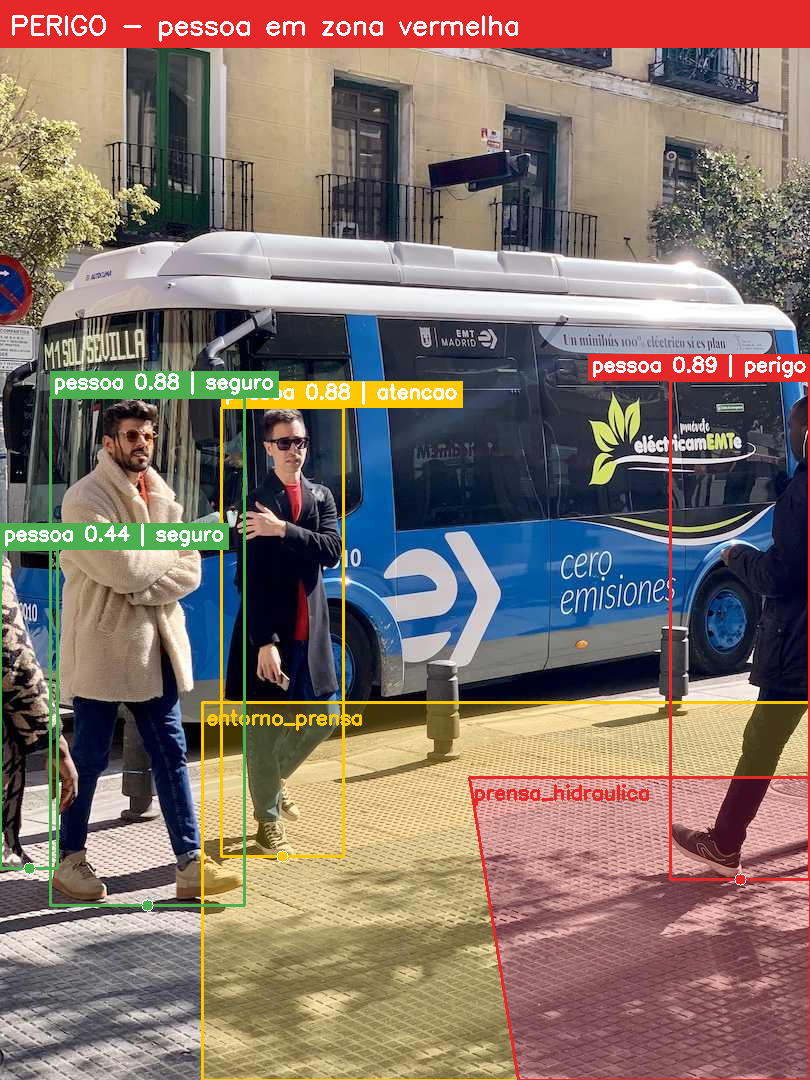
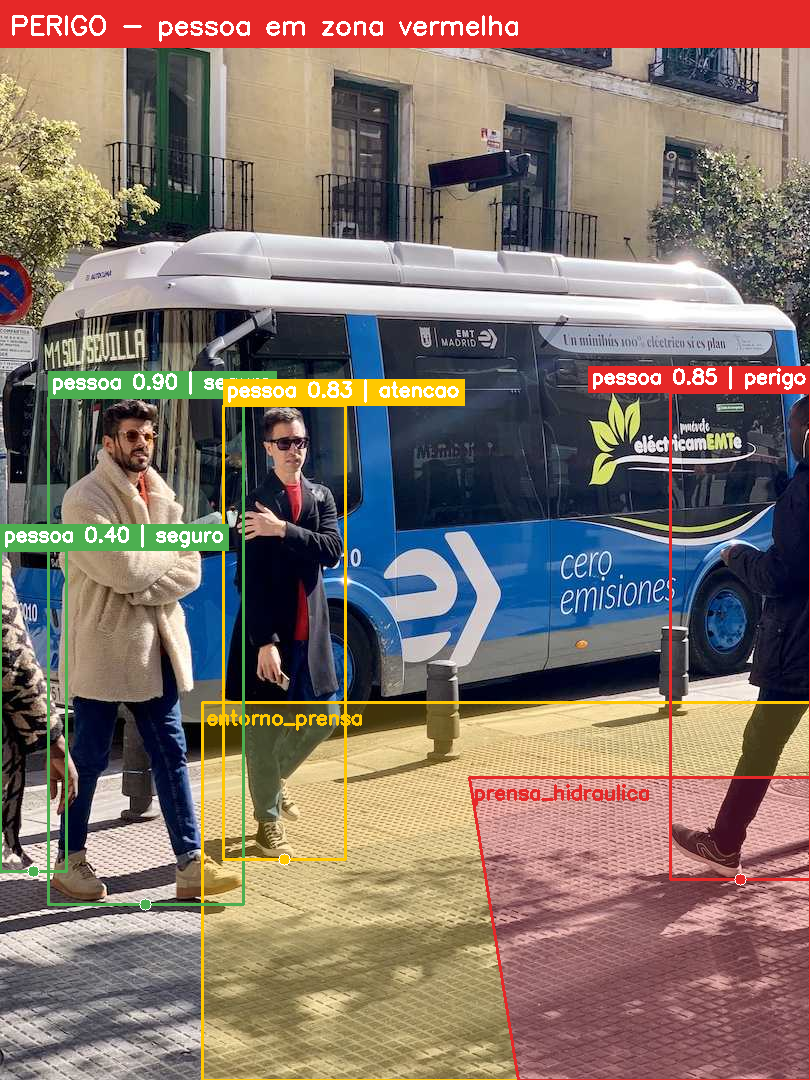
Benchmark real e exemplos com YOLO11n (x86, 4 threads)

diff --git a/README.md b/README.md
@@ -43,11 +43,11 @@ flowchart LR
 
 **Regra de risco.** A posição de cada pessoa é o **centro da base da caixa delimitadora** (aproximadamente os pés). Com a câmera no alto, os polígonos são desenhados sobre o piso, então o ponto de apoio representa melhor a posição real da pessoa no chão. Usar o centro da caixa geraria falsos positivos quando o tronco "invade" visualmente a zona sem que a pessoa pise nela. Quando a pessoa está em mais de uma zona, prevalece a mais crítica (vermelha > amarela).
 
-| Nível | Condição | Ação sugerida (`action`) |
-|---|---|---|
-| `seguro` | Pés fora de qualquer zona | — |
-| `atencao` | Pés na zona amarela (entorno) | `alerta_visual_sonoro` (sinaleiro/sirene) |
-| `perigo` | Pés na zona vermelha (área da máquina) | `parada_de_emergencia` (relé de parada) |
+| Nível     | Condição                               | Ação sugerida (`action`)                  |
+| --------- | -------------------------------------- | ----------------------------------------- |
+| `seguro`  | Pés fora de qualquer zona              | —                                         |
+| `atencao` | Pés na zona amarela (entorno)          | `alerta_visual_sonoro` (sinaleiro/sirene) |
+| `perigo`  | Pés na zona vermelha (área da máquina) | `parada_de_emergencia` (relé de parada)   |
 
 ---
 
@@ -55,13 +55,13 @@ flowchart LR
 
 **Modelo escolhido: YOLO11n** (Ultralytics), pré-treinado no COCO e exportado para **ONNX**. Não é necessário fine-tuning: "person" é a classe mais representada do COCO, e o problema exige apenas **detectar pessoas**. A inteligência de domínio (zonas e criticidade) fica na lógica geométrica, que é configurável e auditável.
 
-| Critério | YOLO11n | SSD MobileNetV2 | EfficientDet-Lite0 |
-|---|---|---|---|
-| mAP COCO (50–95) | ~39,5 | ~22 | ~26 |
-| Parâmetros | 2,6 M | ~4,3 M | ~3,2 M |
-| Custo (640²) | ~6,5 GFLOPs | menor | similar |
-| Exportação ONNX/INT8/NCNN | nativa | via TF | via TFLite |
-| Pessoas pequenas/distantes (câmera a 3–5 m) | boa | fraca | razoável |
+| Critério                                    | YOLO11n     | SSD MobileNetV2 | EfficientDet-Lite0 |
+| ------------------------------------------- | ----------- | --------------- | ------------------ |
+| mAP COCO (50–95)                            | ~39,5       | ~22             | ~26                |
+| Parâmetros                                  | 2,6 M       | ~4,3 M          | ~3,2 M             |
+| Custo (640²)                                | ~6,5 GFLOPs | menor           | similar            |
+| Exportação ONNX/INT8/NCNN                   | nativa      | via TF          | via TFLite         |
+| Pessoas pequenas/distantes (câmera a 3–5 m) | boa         | fraca           | razoável           |
 
 **Por que ele atende aos requisitos de latência e precisão deste cenário:**
 
@@ -80,7 +80,7 @@ flowchart LR
 ```bash
 git clone https://github.com/patrickaraujo/zona-risco-edge-ai.git
 cd zona-risco-edge-ai
-docker compose up -d --build        # 1º build: ~5–10 min (exporta o modelo)
+docker compose up -d --build        # 1º build: 5–20 min, conforme a conexão (exporta o modelo)
 docker compose logs -f              # aguarde "Modelo carregado"
 ```
 
@@ -115,13 +115,13 @@ python scripts/stream_client.py --source video.mp4 --show     # janela com PNG a
 
 ## 4. Endpoints e exemplos
 
-| Método | Rota | Descrição |
-|---|---|---|
-| `POST` | `/detect` | **Inferência → JSON** (pessoas, bbox, confiança, risco, zonas, alertas, métricas) |
-| `POST` | `/detect/image` | **Inferência → PNG anotado** (zonas, caixas, rótulos, faixa de status) |
-| `GET` | `/health` | Estado do serviço, modelo carregado, arquitetura (`x86_64`/`aarch64`) |
-| `GET` / `PUT` | `/zones` | Consulta e redefine as zonas em tempo de execução |
-| `GET` | `/events` | Histórico recente de alertas |
+| Método        | Rota            | Descrição                                                                         |
+| ------------- | --------------- | --------------------------------------------------------------------------------- |
+| `POST`        | `/detect`       | **Inferência → JSON** (pessoas, bbox, confiança, risco, zonas, alertas, métricas) |
+| `POST`        | `/detect/image` | **Inferência → PNG anotado** (zonas, caixas, rótulos, faixa de status)            |
+| `GET`         | `/health`       | Estado do serviço, modelo carregado, arquitetura (`x86_64`/`aarch64`)             |
+| `GET` / `PUT` | `/zones`        | Consulta e redefine as zonas em tempo de execução                                 |
+| `GET`         | `/events`       | Histórico recente de alertas                                                      |
 
 ### `POST /detect`
 
@@ -136,43 +136,43 @@ curl -X POST http://localhost:8000/detect -F "file=@samples/bus.jpg"
   "people": [
     {
       "class_name": "person",
-      "confidence": 0.8902,
-      "bbox": {"x1": 670.4, "y1": 380.6, "x2": 809.9, "y2": 879.7},
-      "anchor_point": [740.2, 879.7],
+      "confidence": 0.8493,
+      "bbox": {"x1": 670.6, "y1": 392.6, "x2": 810.0, "y2": 879.6},
+      "anchor_point": [740.3, 879.6],
       "risk": "perigo",
       "zones": ["entorno_prensa", "prensa_hidraulica"]
     },
     {
       "class_name": "person",
-      "confidence": 0.8833,
-      "bbox": {"x1": 221.7, "y1": 407.4, "x2": 343.8, "y2": 856.2},
-      "anchor_point": [282.7, 856.2],
+      "confidence": 0.8328,
+      "bbox": {"x1": 223.1, "y1": 405.6, "x2": 345.2, "y2": 859.7},
+      "anchor_point": [284.2, 859.7],
       "risk": "atencao",
       "zones": ["entorno_prensa"]
     }
   ],
   "alerts": [
-    {"timestamp": "2026-10-01T13:00:00+00:00", "zone": "prensa_hidraulica",
-     "risk": "perigo", "action": "parada_de_emergencia", "people_in_zone": 1, "source": "api"},
-    {"timestamp": "2026-10-01T13:00:00+00:00", "zone": "entorno_prensa",
-     "risk": "atencao", "action": "alerta_visual_sonoro", "people_in_zone": 2, "source": "api"}
+    {"timestamp": "2026-09-30T05:33:13.229286+00:00", "zone": "entorno_prensa",
+     "risk": "atencao", "action": "alerta_visual_sonoro", "people_in_zone": 2, "source": "api"},
+    {"timestamp": "2026-09-30T05:33:13.229318+00:00", "zone": "prensa_hidraulica",
+     "risk": "perigo", "action": "parada_de_emergencia", "people_in_zone": 1, "source": "api"}
   ],
   "metadata": {
     "model": "yolo11n.onnx", "input_size": [640, 640], "image_size": [810, 1080],
-    "preprocess_ms": 7.9, "inference_ms": 147.5, "postprocess_ms": 2.1,
-    "total_ms": 158.0, "timestamp": "2026-10-01T13:00:00+00:00"
+    "preprocess_ms": 4.68, "inference_ms": 37.93, "postprocess_ms": 1.2,
+    "total_ms": 44.76, "timestamp": "2026-09-30T05:33:13.229627+00:00"
   }
 }
 ```
 
-*(Resposta abreviada: são 4 pessoas no total.)*
+*(Resposta abreviada: são 4 pessoas no total. As outras duas estão fora das zonas, uma delas parcialmente cortada na borda esquerda, detectada com confiança 0,40, pouco acima do limiar de 0,35. O `people_in_zone: 2` da zona amarela inclui a pessoa em perigo, porque a zona vermelha fica dentro da amarela.)*
 
 ### `POST /detect/image`
 
 ```bash
 curl -X POST http://localhost:8000/detect/image -F "file=@samples/bus.jpg" \
      -o anotado.png -D -
-# Cabeçalhos úteis: X-Overall-Risk: perigo | X-People-Count: 4 | X-Inference-Ms: 147.5
+# Cabeçalhos úteis: X-Overall-Risk: perigo | X-People-Count: 4 | X-Inference-Ms: 34.58
 ```
 
 **Tratamento de erros:** arquivo vazio → `400`; arquivo que não é imagem → `415`; imagem acima de 10 MB → `413`; modelo não carregado → `503` (a API sobe em modo degradado e o `/health` explica a causa); zonas inválidas → `422`.
@@ -236,39 +236,40 @@ PUSH=1 IMAGE=<usuario>/zona-risco ./scripts/build_multiarch.sh   # publica o man
 ### Benchmark local (CPU, sem GPU)
 
 ```bash
-python scripts/benchmark.py --threads 4 --runs 50 --out docs/benchmark_x86.json
-# ou, dentro do container, limitado a 4 núcleos como a Pi 5:
-docker run --rm --cpus=4 zona-risco-edge-ai:1.0.0 python scripts/benchmark.py --threads 4
+docker run --rm --cpus=4 zona-risco-edge-ai:1.0.0 python scripts/benchmark.py --threads 4 --runs 50
 ```
 
-<!-- Substitua pela saída do benchmark na sua máquina -->
-| Modelo | Tamanho | Entrada | Threads | Inferência p50 | Total p50 | FPS |
-|---|---|---|---|---|---|---|
-| yolo11n.onnx (FP32) | — MB | 640 | 4 | — ms | — ms | — |
-| yolo11n_320.onnx (FP32) | — MB | 320 | 4 | — ms | — ms | — |
-| yolo11n_int8.onnx | — MB | 640 | 4 | — ms | — ms | — |
+| Modelo                            | Tamanho | Entrada | Threads | Inferência p50 | Inferência p95 | Total p50 | FPS   | Pessoas (média) |
+| --------------------------------- | ------- | ------- | ------- | -------------- | -------------- | --------- | ----- | --------------- |
+| yolo11n.onnx (FP32)               | 10,7 MB | 640     | 4       | 31,2 ms        | 38,6 ms        | 35,0 ms   | 28,6  | 3,0             |
+| yolo11n_320.onnx (FP32)           | 10,6 MB | 320     | 4       | 8,4 ms         | 10,5 ms        | 9,6 ms    | 103,9 | 2,5             |
+| yolo11n_int8.onnx (INT8 dinâmico) | 3,0 MB  | 640     | 4       | 32,0 ms        | 42,1 ms        | 34,7 ms   | 28,8  | 3,0             |
 
-*Ambiente: [CPU do notebook], Docker com `--cpus=4`.*
+*Ambiente: Intel Core Ultra 7 155H, Docker Desktop (WSL2) com `--cpus=4`, 50 execuções sobre `samples/bus.jpg` e `samples/zidane.jpg`, após 5 de aquecimento.*
 
-Num teste preliminar com **1 thread** de CPU x86 e um modelo YOLO *nano* equivalente a 640×640, a inferência levou cerca de 140 ms (FP32). A versão INT8 levou cerca de 108 ms e ocupou 3,5 MB em vez de 12,8 MB. Houve uma perda: uma pessoa parcialmente cortada na borda da imagem, com confiança 0,44, deixou de ser detectada. **Esse é o tipo de troca que precisa ser avaliada com imagens do ambiente real.**
+**Leitura dos resultados:**
+
+- **Entrada 320:** é 3,6× mais rápida, mas a média de pessoas detectadas caiu de 3,0 para 2,5. Com menos resolução, pessoas pequenas ou parcialmente fora do quadro deixam de ser detectadas. Num sistema de segurança, uma pessoa não detectada é o pior tipo de erro, então essa troca só é aceitável se a câmera estiver próxima o bastante da zona para que as pessoas ocupem uma área grande da imagem.
+- **INT8 dinâmico:** reduziu o modelo em 3,6× (de 10,7 para 3,0 MB) sem perder detecções nas imagens de teste, mas **não ganhou latência** neste x86. Na quantização dinâmica, as ativações são quantizadas em tempo de execução, e em redes convolucionais esse custo anula o ganho dos pesos em INT8. O próximo passo seria a **quantização estática (QDQ)**, calibrada com cerca de 200 imagens da própria câmera, e medir o resultado também na Pi, onde o comportamento pode ser diferente.
+- **Limite do teste:** o `--cpus=4` limita a cota de CPU, não o tipo de núcleo. Os núcleos do Core Ultra 7 são bem mais rápidos que os Cortex-A76 da Pi 5, então estes números **não** representam o desempenho na placa.
 
 ### Estimativa para a Raspberry Pi 5
 
 - **Referência externa.** A Arm publica um YOLO11n INT8 otimizado (ExecuTorch + XNNPACK) rodando na Pi 5 a **~134 ms p50 (~7,5 FPS)** e mAP 38,9 ([model card](https://huggingface.co/Arm/yolo11n-int8-xnnpack-executorch-raspberrypi5)). A Ultralytics recomenda **NCNN** como o formato mais rápido na Pi ([guia](https://docs.ultralytics.com/guides/raspberry-pi)).
-- **Expectativa para este projeto (ONNX Runtime FP32, 640, 4 threads):** algo na faixa de **3–6 FPS**. Com entrada 320 (~4× menos operações), **10+ FPS**. *Essa estimativa ainda precisa ser validada na placa* (ver seção 8).
+- **Expectativa para este projeto (ONNX Runtime FP32, 640, 4 threads):** algo na faixa de **3–6 FPS**. Com entrada 320 (cerca de 4× menos operações, o que o benchmark acima confirma com 3,6× de ganho), **10+ FPS**. *Essa estimativa ainda precisa ser validada na placa* (ver seção 8), rodando o mesmo comando de benchmark dentro do container ARM64.
 
 ### Orçamento de latência
 
 A ISO 13855 usa **K = 1,6 m/s** como velocidade de aproximação do corpo humano. A distância mínima entre o limite da zona amarela e o perigo é `S = K × T`, onde **T** é o tempo total de resposta:
 
-| Componente | FP32 640 (~4 FPS) | FP32 320 (~10 FPS) |
-|---|---|---|
-| Intervalo entre quadros (pior caso) | 250 ms | 100 ms |
-| Pipeline (pré + inferência + pós) | 250 ms | 100 ms |
-| Confirmação (2 quadros consecutivos) | 250 ms | 100 ms |
-| Acionamento (relé/CLP) | 100 ms | 100 ms |
-| **T total** | **~850 ms** | **~400 ms** |
-| **Faixa amarela mínima (S = 1,6 × T)** | **~1,4 m** | **~0,65 m** |
+| Componente                             | FP32 640 (~4 FPS) | FP32 320 (~10 FPS) |
+| -------------------------------------- | ----------------- | ------------------ |
+| Intervalo entre quadros (pior caso)    | 250 ms            | 100 ms             |
+| Pipeline (pré + inferência + pós)      | 250 ms            | 100 ms             |
+| Confirmação (2 quadros consecutivos)   | 250 ms            | 100 ms             |
+| Acionamento (relé/CLP)                 | 100 ms            | 100 ms             |
+| **T total**                            | **~850 ms**       | **~400 ms**        |
+| **Faixa amarela mínima (S = 1,6 × T)** | **~1,4 m**        | **~0,65 m**        |
 
 **Conclusão.** Para **alerta de aproximação**, 3–5 FPS já é aceitável, desde que a faixa amarela tenha largura proporcional à latência. Para **parada de emergência**, o sistema **complementa e não substitui** os dispositivos de segurança certificados exigidos pela NR-12 e pela ISO 13849 (cortinas de luz, scanners a laser, intertravamentos com nível de desempenho validado). O papel dele é monitorar comportamento, registrar ocorrências e reforçar a sinalização.
 
@@ -278,18 +279,18 @@ A ISO 13855 usa **K = 1,6 m/s** como velocidade de aproximação do corpo humano
 
 A implementação e os testes foram feitos em notebook x86_64. Estas são as diferenças esperadas na placa e como tratá-las:
 
-| Aspecto | Notebook (dev) | Raspberry Pi 5 | Adaptação |
-|---|---|---|---|
-| Arquitetura | x86_64 | ARM64 (Cortex-A76 ×4, 2,4 GHz) | Imagem `linux/arm64` via buildx; apenas wheels com suporte aarch64 |
-| Aceleração | CPU (GPU ignorada) | Sem GPU utilizável para inferência | ONNX Runtime CPU, `NUM_THREADS=4`, 1 worker Uvicorn, inferência serializada |
-| Otimização | FP32 640 | Recursos limitados | Entrada 320 · pesos INT8 · exportação NCNN, ou quantização estática com imagens do local |
-| NPU | — | Opcional: AI Kit / AI HAT+ (Hailo-8L/8) | Compilar o ONNX para `.hef` (Hailo Dataflow Compiler) e mapear `/dev/hailo0` no container |
-| Câmera | Webcam / arquivo | Camera Module 3 (CSI) ou câmera IP | `picamera2`/libcamera ou RTSP; `devices: /dev/video*` no compose |
-| Térmica | — | Throttling por temperatura sob carga contínua | Active Cooler obrigatório; monitorar `vcgencmd measure_temp` e `get_throttled` |
-| Energia | — | Fonte oficial 27 W (5 V/5 A) | Evita subtensão e instabilidade durante picos de inferência |
-| Armazenamento | SSD | microSD sujeito a desgaste | Eventos em volume dedicado ou SSD NVMe/USB; logs com rotação (já configurada) |
-| Resiliência | — | Operação 24/7 sem operador | `restart: always` + `HEALTHCHECK`; resposta 503 enquanto o modelo não estiver pronto |
-| Ambiente físico | — | Vibração, poeira, fumaça | Caixa IP54+, fixação com amortecimento, limpeza periódica da lente |
+| Aspecto         | Notebook (dev)     | Raspberry Pi 5                                | Adaptação                                                                                 |
+| --------------- | ------------------ | --------------------------------------------- | ----------------------------------------------------------------------------------------- |
+| Arquitetura     | x86_64             | ARM64 (Cortex-A76 ×4, 2,4 GHz)                | Imagem `linux/arm64` via buildx; apenas wheels com suporte aarch64                        |
+| Aceleração      | CPU (GPU ignorada) | Sem GPU utilizável para inferência            | ONNX Runtime CPU, `NUM_THREADS=4`, 1 worker Uvicorn, inferência serializada               |
+| Otimização      | FP32 640           | Recursos limitados                            | Entrada 320 · pesos INT8 · exportação NCNN, ou quantização estática com imagens do local  |
+| NPU             | —                  | Opcional: AI Kit / AI HAT+ (Hailo-8L/8)       | Compilar o ONNX para `.hef` (Hailo Dataflow Compiler) e mapear `/dev/hailo0` no container |
+| Câmera          | Webcam / arquivo   | Camera Module 3 (CSI) ou câmera IP            | `picamera2`/libcamera ou RTSP; `devices: /dev/video*` no compose                          |
+| Térmica         | —                  | Throttling por temperatura sob carga contínua | Active Cooler obrigatório; monitorar `vcgencmd measure_temp` e `get_throttled`            |
+| Energia         | —                  | Fonte oficial 27 W (5 V/5 A)                  | Evita subtensão e instabilidade durante picos de inferência                               |
+| Armazenamento   | SSD                | microSD sujeito a desgaste                    | Eventos em volume dedicado ou SSD NVMe/USB; logs com rotação (já configurada)             |
+| Resiliência     | —                  | Operação 24/7 sem operador                    | `restart: always` + `HEALTHCHECK`; resposta 503 enquanto o modelo não estiver pronto      |
+| Ambiente físico | —                  | Vibração, poeira, fumaça                      | Caixa IP54+, fixação com amortecimento, limpeza periódica da lente                        |
 
 ### Como eu validaria na placa
 
